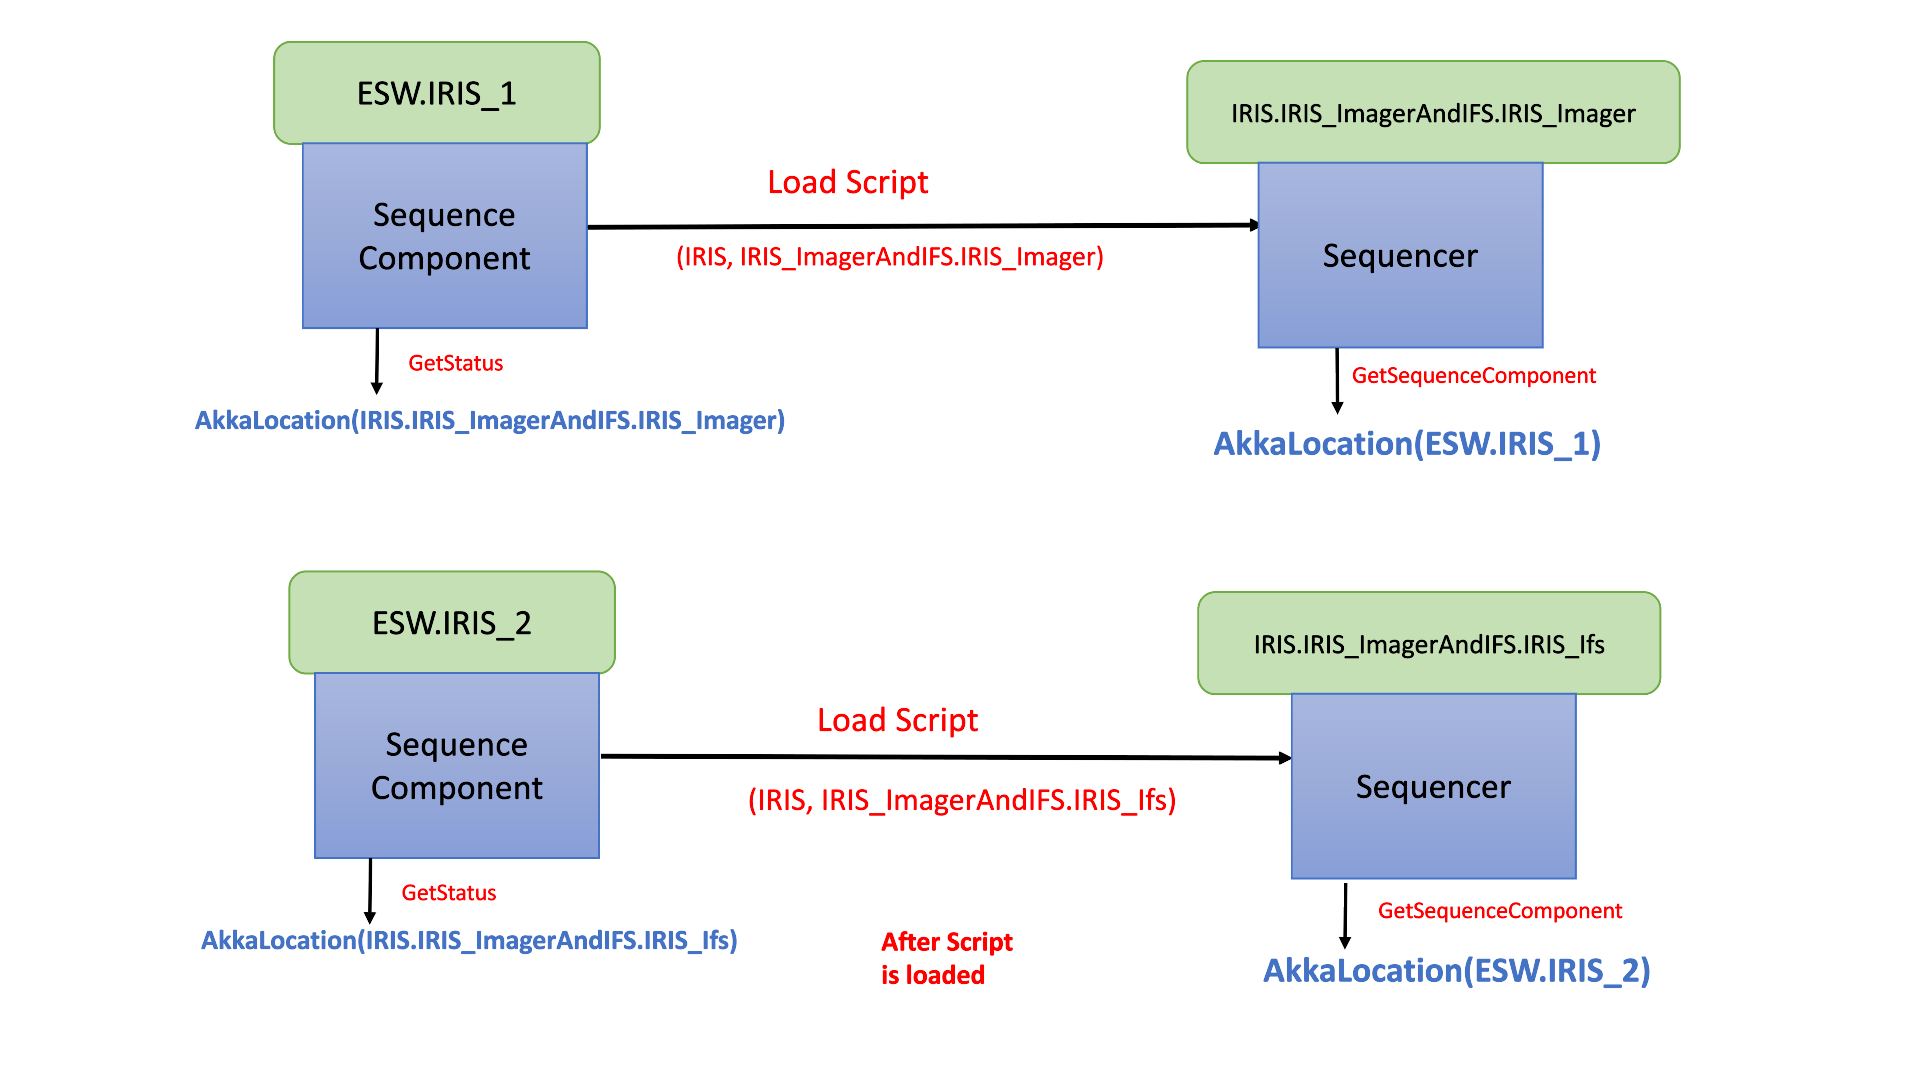
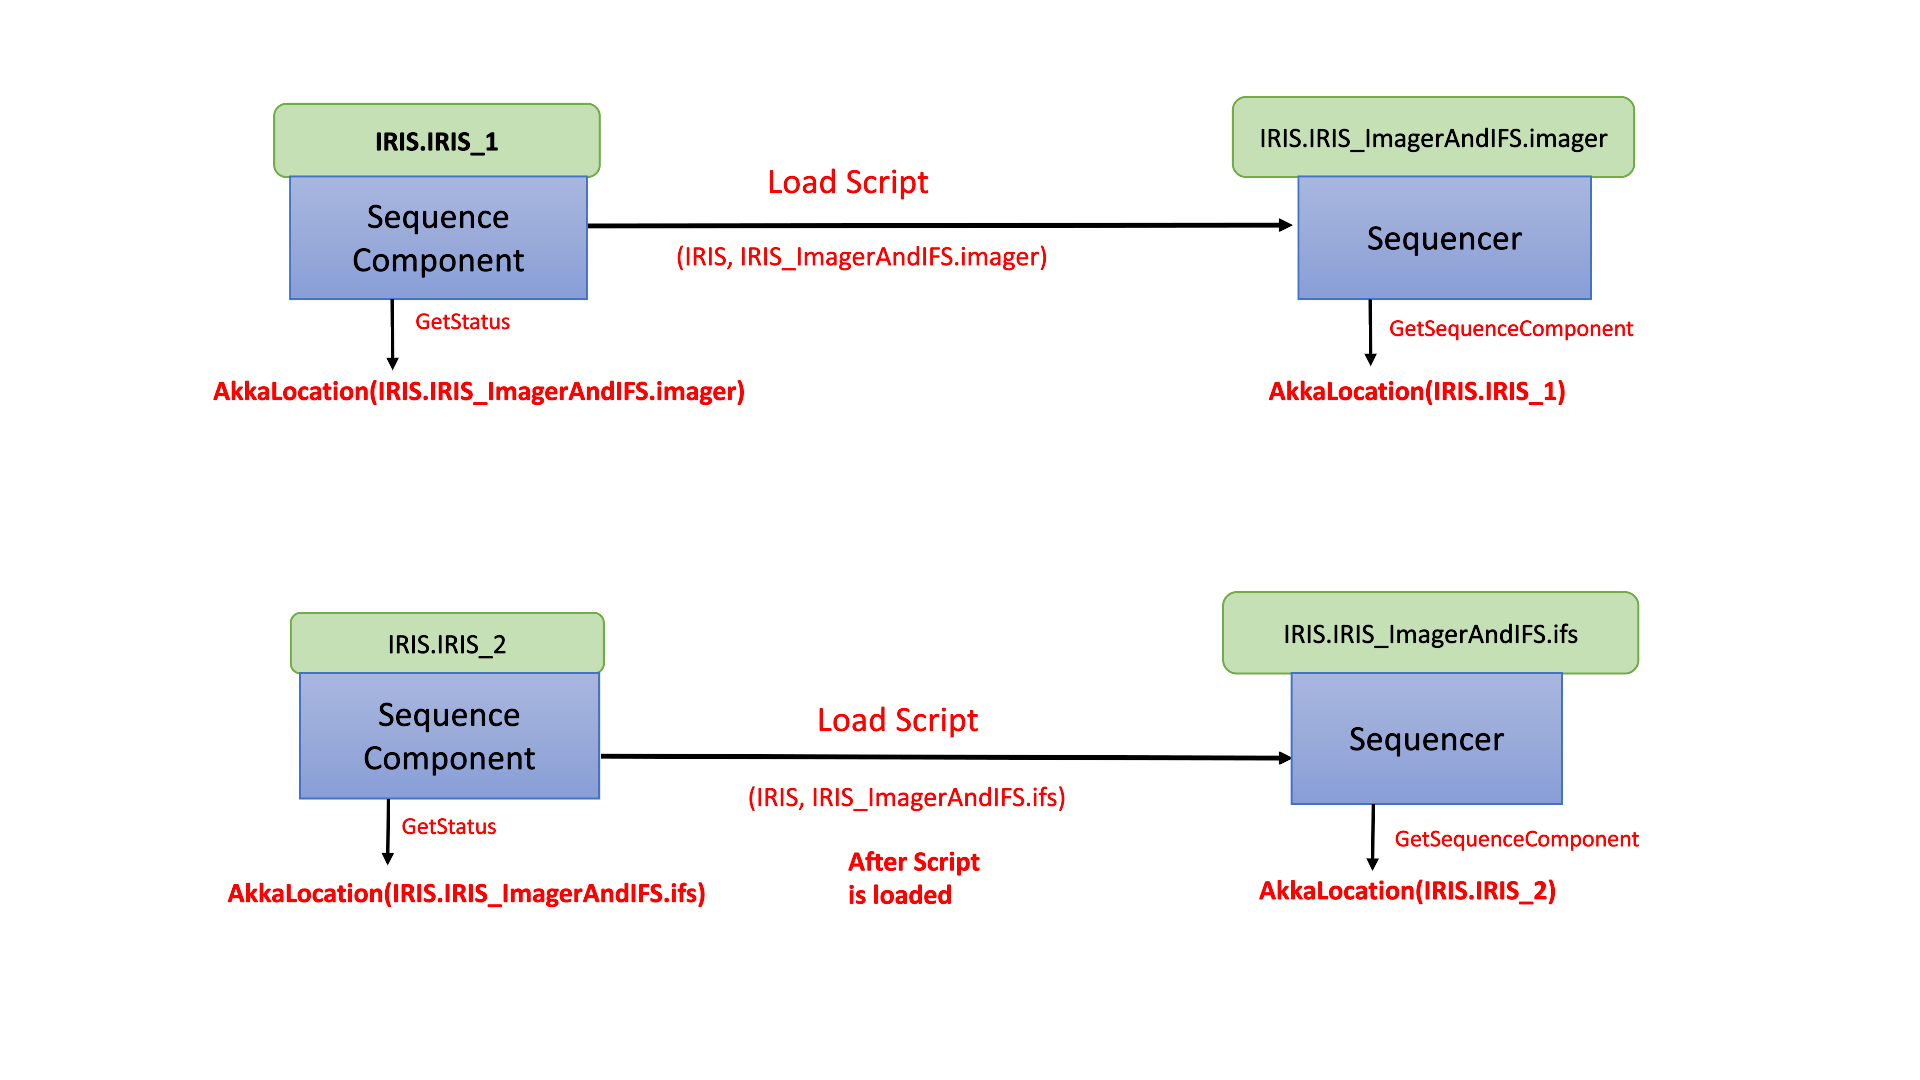
Rajalakshmi|ESW-568 Changes to docs for variation from IRIS_Imager to imager

diff --git a/docs/src/main/scripts/dsl/services/sequencer-command-service.md b/docs/src/main/scripts/dsl/services/sequencer-command-service.md
@@ -4,13 +4,13 @@ A Sequencer can send commands to Assemblies and HCDs and Sequences to other Sequ
 In order to interact or send commands from one Sequencer to the other, one needs to create a `Sequencer` instance first.
 The API provided by a Sequencer Command Service is tailored to Sequencer functionality.
 
-##Sequencer
+## Sequencer
 
 First a Sequencer instance is needed. To create a Sequencer instance, the following parameters need to be passed to the Sequencer method:
 
-* `prefix`: Prefix of the Sequencer to be resolved and sent commands (for eg. TCS.wfos_imaging, IRIS.IRIS_ImagerAndIFS.IRIS_IMAGER)
+* `prefix`: Prefix of the Sequencer to be resolved and sent commands (for eg. TCS.wfos_imaging, IRIS.IRIS_ImagerAndIFS.imager)
 * `defaultTimeout`: optional max timeout to wait for completion of Sequences sent with `sumbitAndWait` or `queryFinal`.  The default
-value for this option is set to 10 hours since it will be common that the handling of Sequences can take a long time, and 
+value for this option is set to 10 hours since it will be common that the handling of Sequences can take a long time, and
 we don't want unexpected timeouts to occur in production.  For development, it might make sense to set this to some smaller value.
 This can always be overridden in the specific `submitAndWait` and `queryFinal` calls, when appropriate (see below).
 
@@ -24,26 +24,26 @@ Here is one showing the setting of the default timeout:
 Kotlin
 : @@snip [SequencerCommandServiceDslExample.kts](../../../../../../examples/src/main/kotlin/esw/ocs/scripts/examples/paradox/SequencerCommandServiceDslExample.kts) { #creating-sequencer-timeout }
 
-
 @@@ note { title="Resolving a Component with Location Service" }
 Since all the components in the TMT architecture are dynamic in nature, which implies they can be shutdown and spawned dynamically
 on some other location, the Sequencer is resolved each time the Command Service DSL is used. It is possible to create a Sequencer
-entity for a non-existent component, but a command to the component will fail because the component is resolved when the 
-command is sent. 
+entity for a non-existent component, but a command to the component will fail because the component is resolved when the
+command is sent.
 @@@
 
 ## Submitting Sequences to a Sequencer & Querying the Response
 
 ### Creating a Sequence
-Unlike Assemblies and HCDs, Sequencers send Sequences to other Sequencers.  A `Sequence` is a 
-list of `SequenceCommand` type instances, each of which can be one of the `Setup`, `Observe` or `Wait` types. 
+
+Unlike Assemblies and HCDs, Sequencers send Sequences to other Sequencers.  A `Sequence` is a
+list of `SequenceCommand` type instances, each of which can be one of the `Setup`, `Observe` or `Wait` types.
 To create a Sequence, create individual `SequenceCommand` objects and then create a `Sequence` with the `sequenceOf` DSL method as shown below.
 
 Kotlin
 : @@snip [SequencerCommandServiceDslExample.kts](../../../../../../examples/src/main/kotlin/esw/ocs/scripts/examples/paradox/SequencerCommandServiceDslExample.kts) { #creating-sequence }  
 
 This example `Sequence` consists of two steps. The Sequencer sends the two step `Sequence` to the destination Sequencer and waits for it to complete, which means
-both of the two commands/steps are executed and completed.  All `Sequence` steps must complete successfully for the `Sequence` to complete successfully. 
+both of the two commands/steps are executed and completed.  All `Sequence` steps must complete successfully for the `Sequence` to complete successfully.
   
 The API for Sequence is @extref[here](csw_javadoc:csw/params/commands/Sequence.html). The API for SequenceCommand is @extref[here](csw_scaladoc:csw/params/commands/SequenceCommand.html)
 
@@ -56,13 +56,13 @@ The `query` and `queryFinal` DSL is provided to check the response of a submitte
 Kotlin
 : @@snip [SequencerCommandServiceDslExample.kts](../../../../../../examples/src/main/kotlin/esw/ocs/scripts/examples/paradox/SequencerCommandServiceDslExample.kts) { #submitAndQuery }  
 
-The `query` DSL method allows checking on the state of the `Sequence`. `query` returns the current response immediately, which could be either a final 
+The `query` DSL method allows checking on the state of the `Sequence`. `query` returns the current response immediately, which could be either a final
 response (eg. `Completed`) or the `Started` response. The `runId` of the submitted `Sequence` can be obtained from the `SubmitResponse` returned by `submit`.
-`query` is useful in the case where polling of the command is needed, or the script needs to take 
-other actions and periodically check for the completion of the `Sequence`.    
+`query` is useful in the case where polling of the command is needed, or the script needs to take
+other actions and periodically check for the completion of the `Sequence`.
 
-Note that if the `runId` is not present in the Sequencer or has been removed from the CRM, the response returned 
-is an `Invalid` response with an `IdNotAvailableIssue`. 
+Note that if the `runId` is not present in the Sequencer or has been removed from the CRM, the response returned
+is an `Invalid` response with an `IdNotAvailableIssue`.
 
 Please refer to @ref:[SubmitResponse extension utilities](submit-response-extensions.md) for using helper methods on `SubmitResponse`.
 
@@ -147,8 +147,8 @@ Kotlin
 
 ### Operations Mode
 
-The `operationsMode` command returns a Sequencer in a diagnostic data mode to normal operation. `operationsMode` is accepted by Sequencers in all states 
-and an `OperationsModeResponse` is returned to the sender. If the Sequencer has defined its @ref:[operations mode handlers](../constructs/handlers.md#operations-mode-handler), 
+The `operationsMode` command returns a Sequencer in a diagnostic data mode to normal operation. `operationsMode` is accepted by Sequencers in all states
+and an `OperationsModeResponse` is returned to the sender. If the Sequencer has defined its @ref:[operations mode handlers](../constructs/handlers.md#operations-mode-handler),
 they will be called. If the handlers execute successfully, an `Ok` response is sent; otherwise, the `OperationsHookFailed` response is sent.
 
 Kotlin

diff --git a/docs/src/main/sequencersandscripts/sequencer.md b/docs/src/main/sequencersandscripts/sequencer.md
@@ -118,8 +118,8 @@ There are no restrictions on this name, but shorter is better. Any name can be u
 This is argument to allow the system to run multiple sequencers for a subsystem.
 As an example we need to create 3 IRIS sequencers + 1 top level ESW sequencer for IRIS_ImagerAndIFS Obsmode
 
-* IRIS.IRIS_ImagerAndIFS.IRIS_Ifs //Subsystem . obsmode . variation
-* IRIS.IRIS_ImagerAndIFS.IRIS_Imager //Subsystem . obsmode . variation
+* IRIS.IRIS_ImagerAndIFS.ifs //Subsystem . obsmode . variation
+* IRIS.IRIS_ImagerAndIFS.imager //Subsystem . obsmode . variation
 * IRIS.IRIS_ImagerAndIFS //Subsystem . obsmode
 * ESW.IRIS_ImagerAndIFS //Subsystem . Obsmode
 
@@ -137,8 +137,8 @@ Use of @ sign makes it appear like an email, hence validateSite fails without sp
 
 | Sequence<br>Component Name | Sequencer Subsystem | Observing Mode| Variation | Registered Location | Description|
 |:------------------:|:-------:|:---------:|:-----------:|:---------------:|:------------------|
-| ESW.IRIS_1 | IRIS | IRIS_ImagerAndIFS| IRIS_Imager |IRIS.IRIS_ImagerAndIFS.IRIS_Imager | An IRIS instrument Sequencer running the IRIS script for the IRIS_ImagerAndIFS observing mode using the ESW.IRIS_1 Sequence Component with a variation as IRIS_Imager. |
-| ESW.IRIS_2 | IRIS | IRIS_ImagerAndIFS | IRIS_Ifs |IRIS.IRIS_ImagerAndIFS.IRIS_Ifs | An IRIS instrument Sequencer running the IRIS script for the IRIS_ImagerAndIFS observing mode using the ESW.IRIS_2 Sequence Component with a variation as IRIS_Ifs. |
+| IRIS.IRIS_1 | IRIS | IRIS_ImagerAndIFS| imager |IRIS.IRIS_ImagerAndIFS.imager | An IRIS instrument Sequencer running the IRIS script for the IRIS_ImagerAndIFS observing mode using the IRIS.IRIS_1 Sequence Component with a variation as imager. |
+| IRIS.IRIS_2 | IRIS | IRIS_ImagerAndIFS | ifs |IRIS.IRIS_ImagerAndIFS.ifs | An IRIS instrument Sequencer running the IRIS script for the IRIS_ImagerAndIFS observing mode using the IRIS.IRIS_2 Sequence Component with a variation as ifs. |
 | ESW.primary | ESW |  IRIS_ImagerAndIFS | | ESW.IRIS_ImagerAndIFS | An ESW Sequencer running the ESW script for the IRIS_ImagerAndIFS observing mode using the ESW.primary Sequence Component. |
 
 As shown above, the observing mode is the instrument name, and an instrument-specific label related to observing mode features.  Variation is used to differentiate between any two sequencers of one subsystem(eg. IRIS).  Each instrument
@@ -147,7 +147,9 @@ Once the Sequencer script is loaded in a Sequence Component, the Sequencer API e
 Location of the Sequence Component allowing the Sequence Manager or other client to determine which Sequence Component is executing
 the observing mode script for a specific packageId.
 
-The figure below shows the Sequence Component IRIS1, IRIS2 loading the IRIS instrument script for the IRIS_ImagerAndIFS observing mode.
+The figure below shows two IRIS Sequence Components, IRIS1 and IRIS2, loading script variations imager and ifs as part of the IRIS_ImagerAndIFS observing mode. In this case there is a Sequencer for the imager detector and a Sequencer for the ifs detector.
+
+The green boxes show how the Sequencer and Sequence Component are registered in the Location Service
 
 ![SequenceCompNaming](../images/ocs/OCS-SeqCompSeqNaming1.png)
 

diff --git a/docs/src/main/sequencersandscripts/sequencer-app.md b/docs/src/main/sequencersandscripts/sequencer-app.md
@@ -103,7 +103,7 @@ Options accepted by this command are described below:
 * `-a`, `--agent-prefix` : optional argument: agentPrefix on which sequence component will be spawned, for eg: `ESW.agent1`, `IRIS.agent2` etc
 * `-i` : optional subsystem of sequencer script, for e.g. `tcs`, `iris` etc. Default value: subsystem provided by `-s` option.
 * `-m`, `--obs-mode` : observing mode, for e.g. `darknight`
-* `-v`, `--variation` : optional variation part of the sequencer prefix for eg: Sequencer Prefix(IRIS.IRIS_ImagerAndIFS.IRIS_Ifs), `IRIS_Ifs` needs to be provided as variation
+* `-v`, `--variation` : optional variation part of the sequencer prefix for eg: Sequencer Prefix(IRIS.IRIS_ImagerAndIFS.ifs), `ifs` needs to be provided as variation
 
 The following command examples start both a Sequence Component and Sequencer:
 
@@ -128,14 +128,14 @@ cd /tmt/apps
 
 ```
 
-Example 3: Start the IRIS-darknight Sequencer on an IRIS Sequence Component with a variation of IRIS_Ifs
+Example 3: Start the IRIS-darknight Sequencer on an IRIS Sequence Component with a variation of `ifs`
 
 ```bash
 //cd to installation directory
 cd /tmt/apps
 
-//Example below will spawn a Sequence Component `IRIS-primary` and a Sequencer `IRIS-ImagerAndIFS` in it with variation as IRIS_Ifs
-./esw-ocs-app sequencer -s iris -a IRIS.agent1 -n primary -i iris -m IRIS_ImagerAndIFS -v IRIS_Ifs
+//Example below will spawn a Sequence Component `IRIS-primary` and a Sequencer `IRIS-ImagerAndIFS` in it with variation as `ifs`
+./esw-ocs-app sequencer -s iris -a IRIS.agent1 -n primary -i iris -m IRIS_ImagerAndIFS -v ifs
 
 ```
 

diff --git a/docs/src/main/technical/apps/sequence-manager-app.md b/docs/src/main/technical/apps/sequence-manager-app.md
@@ -76,7 +76,7 @@ Sequence Manager uses the obsMode and the subsystem to find the correct script t
 are located in the `sequencer-scripts` repository.
 
 The obsMode configuration file is written in JSON. An example follows with three obsModes: IRIS_MCAO, IRIS_Calib, and WFOS_Calib.
-By convention obsModes start with the instrument's subsystem name followed by an underscore and some other description. The Sequencers can also have a variation now(eg. `IRIS_Imager`, `IRIS_Ifs`) to run multiple sequencers concurrently for a subsystem.
+By convention obsModes start with the instrument's subsystem name followed by an underscore and some other description. The Sequencers can also have a variation now(eg. `imager`, `ifs`) to run multiple sequencers concurrently for a subsystem.
 
 ```
 esw-sm {
@@ -87,7 +87,7 @@ esw-sm {
     },
     IRIS_ImagerAndIFS: {
       resources: [IRIS, TCS]
-      sequencers: [IRIS.IRIS_Imager, IRIS.IRIS_Ifs, ESW]
+      sequencers: [IRIS.imager, IRIS.ifs, ESW]
     },
     WFOS_Calib: {
       resources: [WFOS]

diff --git a/docs/src/main/technical/sequence-manager-tech.md b/docs/src/main/technical/sequence-manager-tech.md
@@ -70,8 +70,8 @@ Sequence Manager also support running multiple sequencers of a subsystem in same
 
 * To support multiple sequencers with same subsystem in an observation, we can add variation while doing LoadScript.
   As an example we need to create 3 IRIS sequencers + 1 top level ESW sequencer for IRIS_ImagerAndIFS Obsmode
-  * IRIS.IRIS_ImagerAndIFS.IRIS_Ifs //Subsystem . obsmode . variation
-  * IRIS.IRIS_ImagerAndIFS.IRIS_Imager //Subsystem . obsmode . variation
+  * IRIS.IRIS_ImagerAndIFS.ifs //Subsystem . obsmode . variation
+  * IRIS.IRIS_ImagerAndIFS.imager //Subsystem . obsmode . variation
   * IRIS.IRIS_ImagerAndIFS //Subsystem . obsmode
   *ESW.IRIS_ImagerAndIFS //Subsystem . Obsmode
 
